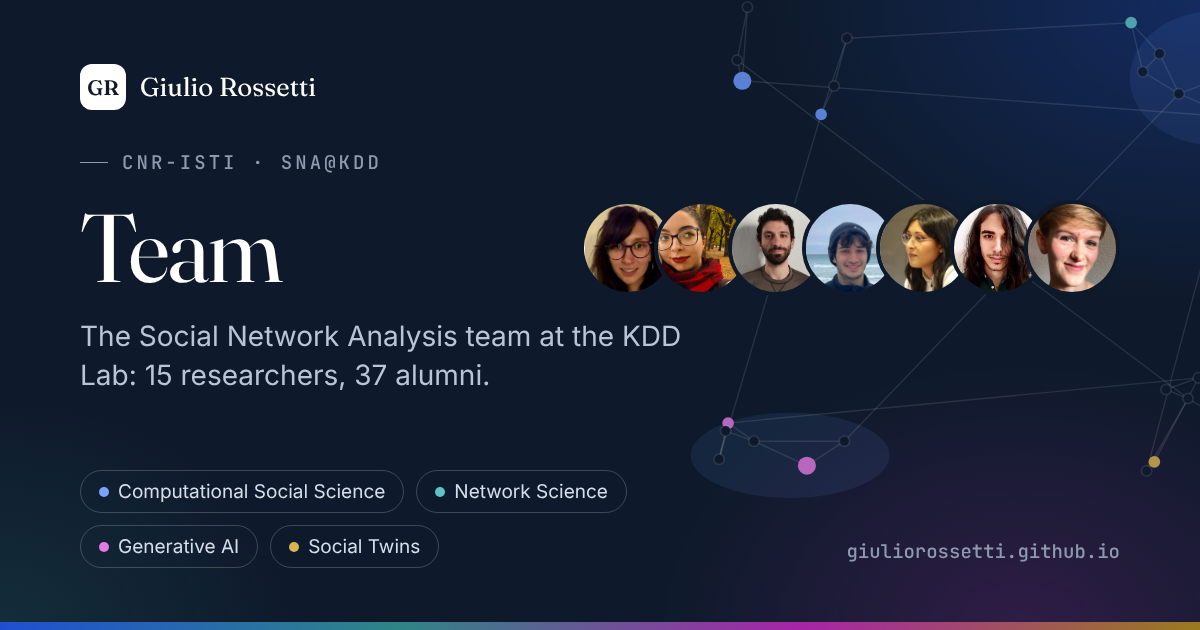
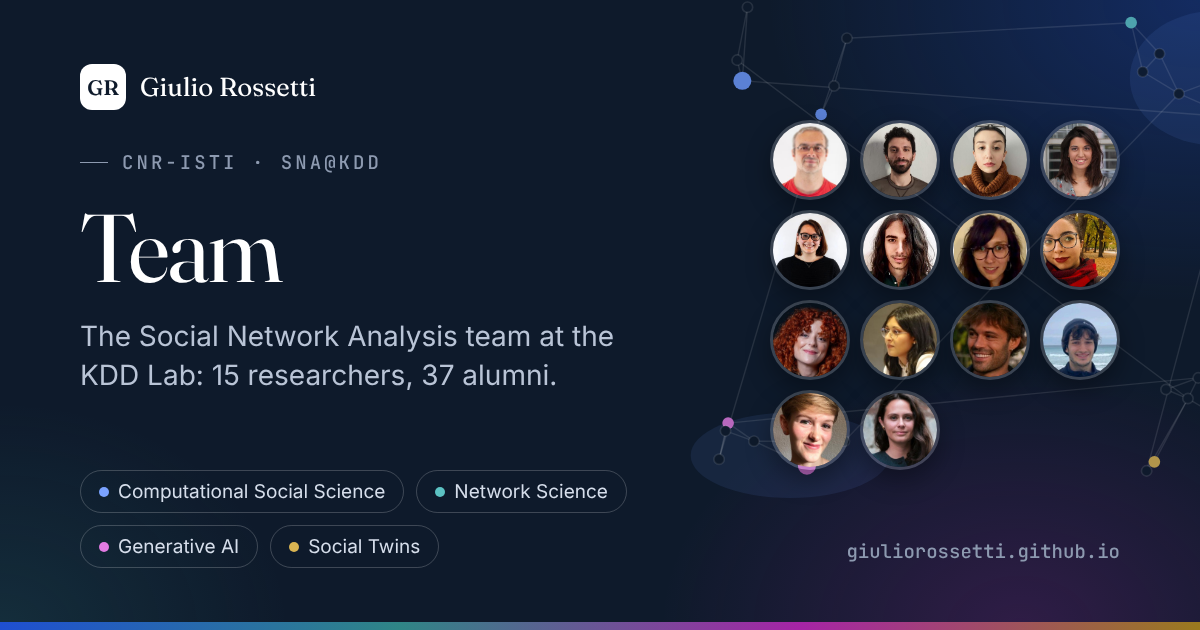
Team photos everywhere; remove grant amount from the Sage award
- Home team teaser shows all current members with a photo (ordered by role)
- Team social card shows all member photos in a 4-column grid
- CV: Sage Concept Grant entry without the amount

Claude-Session: https://claude.ai/code/session_01JxidKa8NghqRi91b32PqMq

Changed region(s): [[0.4625, 0.181, 0.9558, 0.754], [0.0617, 0.573, 0.4625, 0.6333], [0.5242, 0.5127, 0.5858, 0.573]]

diff --git a/bin/gen_og.js b/bin/gen_og.js
@@ -16,7 +16,10 @@ const team = fs.readdirSync(path.join(ROOT, "_team")).map(n => fs.readFileSync(p
 const cat = t => (t.match(/^category:\s*(.*)$/m) || [])[1] || "";
 const nTeam = team.filter(t => cat(t) !== "Alumni").length;
 const nAlumni = team.filter(t => cat(t) === "Alumni").length;
-const photos = team.filter(t => cat(t) !== "Alumni" && /^img:/m.test(t)).map(t => t.match(/^img:\s*(.*)$/m)[1].trim()).slice(0, 7);
+const order = ["Senior Researchers", "Assistant Professors", "Postdoctoral Researchers", "PhD Students"];
+const imp = t => parseFloat((t.match(/^importance:\s*(.*)$/m) || [])[1] || 99);
+const photos = order.flatMap(c => team.filter(t => cat(t) === c && /^img:/m.test(t)).sort((a, b) => imp(a) - imp(b)))
+  .map(t => t.match(/^img:\s*(.*)$/m)[1].trim());
 const net = fs.readFileSync(path.join(ROOT, "_includes/net.html"), "utf8").replace("{{ include.class }}", "");
 
 // ---- shared template -----------------------------------------------------------
@@ -50,13 +53,13 @@ p{font-size:28px;line-height:1.38;color:#b9c4d6;margin:0}
 .big span{font-size:24px;color:#b9c4d6}
 .logos{position:absolute;right:70px;top:150px;display:grid;grid-template-columns:repeat(2,140px);gap:10px 18px}.logos img{height:180px;justify-self:center}
 .thumbs{position:absolute;right:70px;top:120px;display:grid;grid-template-columns:repeat(2,200px);gap:14px}.thumbs img{width:200px;height:88px;object-fit:cover;border-radius:12px;box-shadow:0 14px 30px rgba(0,0,0,.4)}
-.avatars{position:absolute;right:80px;top:200px;display:flex}.avatars img{width:96px;height:96px;border-radius:50%;object-fit:cover;border:4px solid #0e1a2b;margin-left:-22px}
-.section .copy{top:150px}.section h1{font-size:96px}
+.avatars{position:absolute;right:80px;top:120px;display:grid;grid-template-columns:repeat(4,80px);gap:10px}.avatars img{width:80px;height:80px;border-radius:50%;object-fit:cover;border:3px solid rgba(255,255,255,.18);box-shadow:0 10px 24px rgba(0,0,0,.35)}
+.section .copy{top:150px}.team .copy{width:560px}.section h1{font-size:96px}
 `;
 const pillars = `<div class="chips"><span class="chip"><i style="background:#7aa2ff"></i>Computational Social Science</span><span class="chip"><i style="background:#5cc2c3"></i>Network Science</span><span class="chip"><i style="background:#e27be2"></i>Generative AI</span><span class="chip"><i style="background:#d9b452"></i>Social Twins</span></div>`;
 const brand = `<div class="brand"><span class="mark">GR</span>Giulio Rossetti</div>`;
 const page = (cls, inner) => `<!doctype html><html><head><meta charset="utf-8"><style>${css}</style></head><body class="${cls}"><div class="net">${net}</div>${inner}<div class="bar"></div></body></html>`;
-const section = (title, text, right, chips) => page("section", `${brand}<div class="copy"><div class="eyebrow">CNR-ISTI · SNA@KDD</div><h1>${title}</h1><p>${text}</p></div>${right || ""}${chips || pillars}<div class="url">giuliorossetti.github.io</div>`);
+const section = (title, text, right, chips, extra) => page("section " + (extra || ""), `${brand}<div class="copy"><div class="eyebrow">CNR-ISTI · SNA@KDD</div><h1>${title}</h1><p>${text}</p></div>${right || ""}${chips || pillars}<div class="url">giuliorossetti.github.io</div>`);
 
 const CARDS = {
   home: page("", `<div class="copy"><div class="eyebrow">CNR-ISTI · SNA@KDD · Pisa</div>
@@ -70,7 +73,7 @@ const CARDS = {
     `<div class="logos">${["ysocial", "cdlib", "ndlib", "dynetx"].map(n => `<img src="${f(`assets/img/software/${n}.png`)}">`).join("")}</div>`,
     `<div class="chips"><span class="chip">YSocial</span><span class="chip">ySights</span><span class="chip">CDlib</span><span class="chip">NDlib</span><span class="chip">DyNetX</span></div>`),
   team: section("Team", `The Social Network Analysis team at the KDD Lab: ${nTeam} researchers, ${nAlumni} alumni.`,
-    `<div class="avatars">${photos.map(p => `<img src="${f(p)}">`).join("")}</div>`),
+    `<div class="avatars">${photos.map(p => `<img src="${f(p)}">`).join("")}</div>`, null, "team"),
   teaching: section("Teaching", "Network science and programming courses at the University of Pisa, PhD schools and outreach.",
     `<div class="thumbs">${["alns", "sna", "epidemics", "cna", "pds", "intro-programming"].map(n => `<img src="${f(`assets/img/teaching/${n}.svg`)}">`).join("")}</div>`,
     `<div class="chips"><span class="chip"><i style="background:#7aa2ff"></i>MSc</span><span class="chip"><i style="background:#e27be2"></i>PhD</span><span class="chip"><i style="background:#5cc2c3"></i>BSc</span><span class="chip"><i style="background:#d9b452"></i>Outreach</span></div>`),

diff --git a/_layouts/home.html b/_layouts/home.html
@@ -159,9 +159,12 @@ layout: default
       </div>
       <div class="card team-teaser">
         <div class="avatar-stack">
-          {%- assign with_photo = site.team | where_exp: "m", "m.img != nil" | where_exp: "m", "m.category != 'Alumni'" | sort: "importance" -%}
-          {%- for m in with_photo limit: 7 %}
-          <span class="avatar" title="{{ m.title }}"><img src="{{ m.img | relative_url }}" alt="{{ m.title }}" loading="lazy" width="52" height="52"></span>
+          {%- assign team_order = "Senior Researchers,Assistant Professors,Postdoctoral Researchers,PhD Students" | split: "," -%}
+          {%- for cat in team_order %}
+          {%- assign group = site.team | where: "category", cat | sort: "importance" -%}
+          {%- for m in group %}{%- if m.img %}
+          <a class="avatar" href="{{ '/team/' | relative_url }}" title="{{ m.title }}"><img src="{{ m.img | relative_url }}" alt="{{ m.title }}" loading="lazy" width="40" height="40"></a>
+          {%- endif %}{%- endfor %}
           {%- endfor %}
         </div>
         <p>A team of postdocs and PhD students working across network science, NLP and LLM-based simulation, embedded in the KDD Lab and the Italian National PhD in AI for Society.</p>

diff --git a/_sass/_pages.scss b/_sass/_pages.scss
@@ -285,7 +285,7 @@
   color: var(--text-soft);
   img { width: 100%; height: 100%; object-fit: cover; }
 }
-.avatar-stack { display: flex; .avatar { width: 52px; height: 52px; margin-left: -12px; border: 3px solid var(--bg); box-shadow: var(--shadow-sm); } .avatar:first-child { margin-left: 0; } }
+.avatar-stack { display: flex; flex-wrap: wrap; padding-left: 8px; row-gap: 6px; .avatar { width: 40px; height: 40px; margin-left: -8px; border: 3px solid var(--bg-elev); box-shadow: var(--shadow-sm); transition: transform .15s ease; position: relative; } .avatar:hover { transform: translateY(-3px); z-index: 2; } }
 
 // ---------------------------------------------------------------------------
 // Home: news + team teaser
